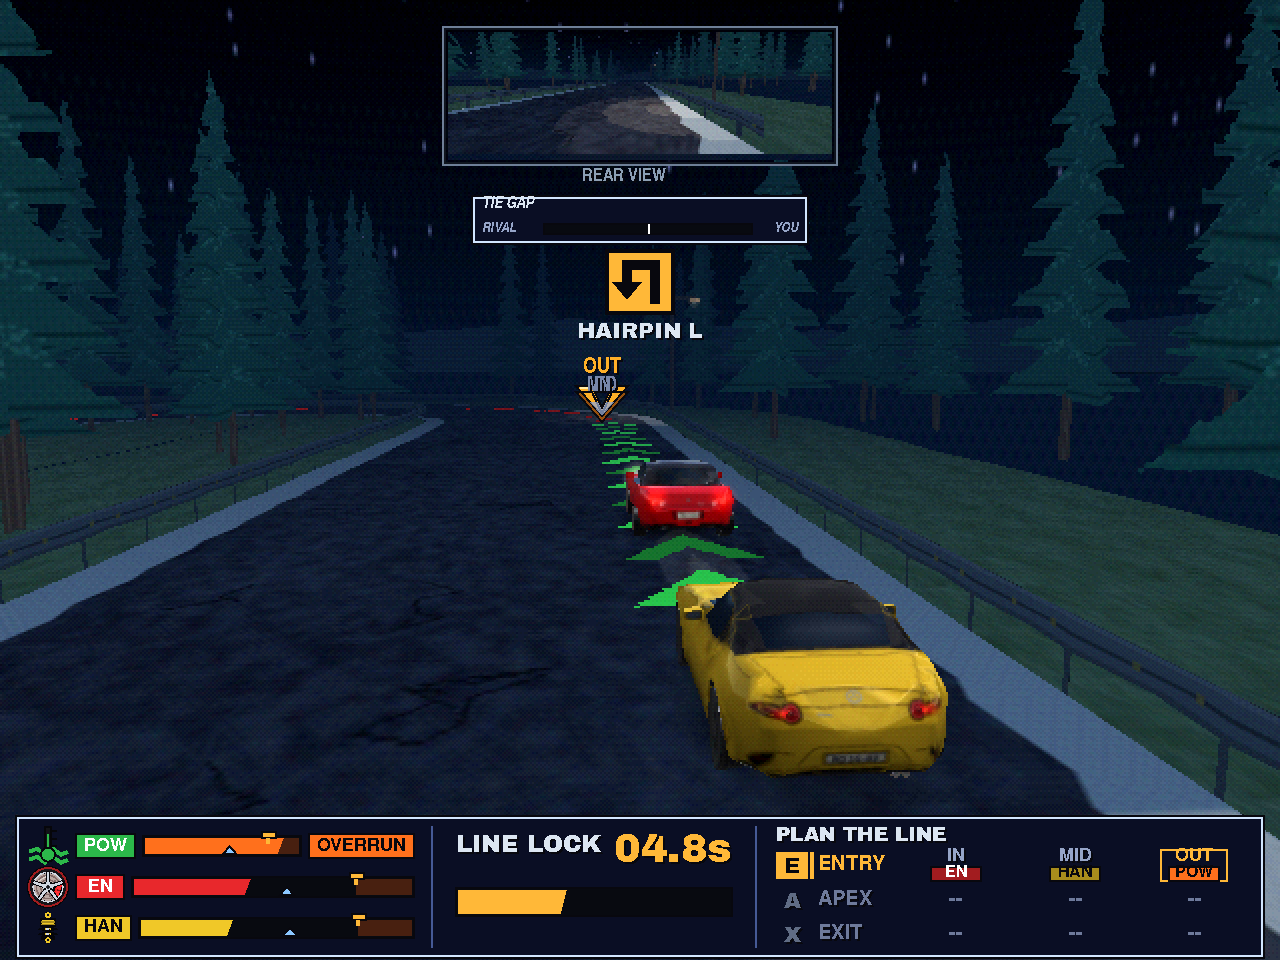
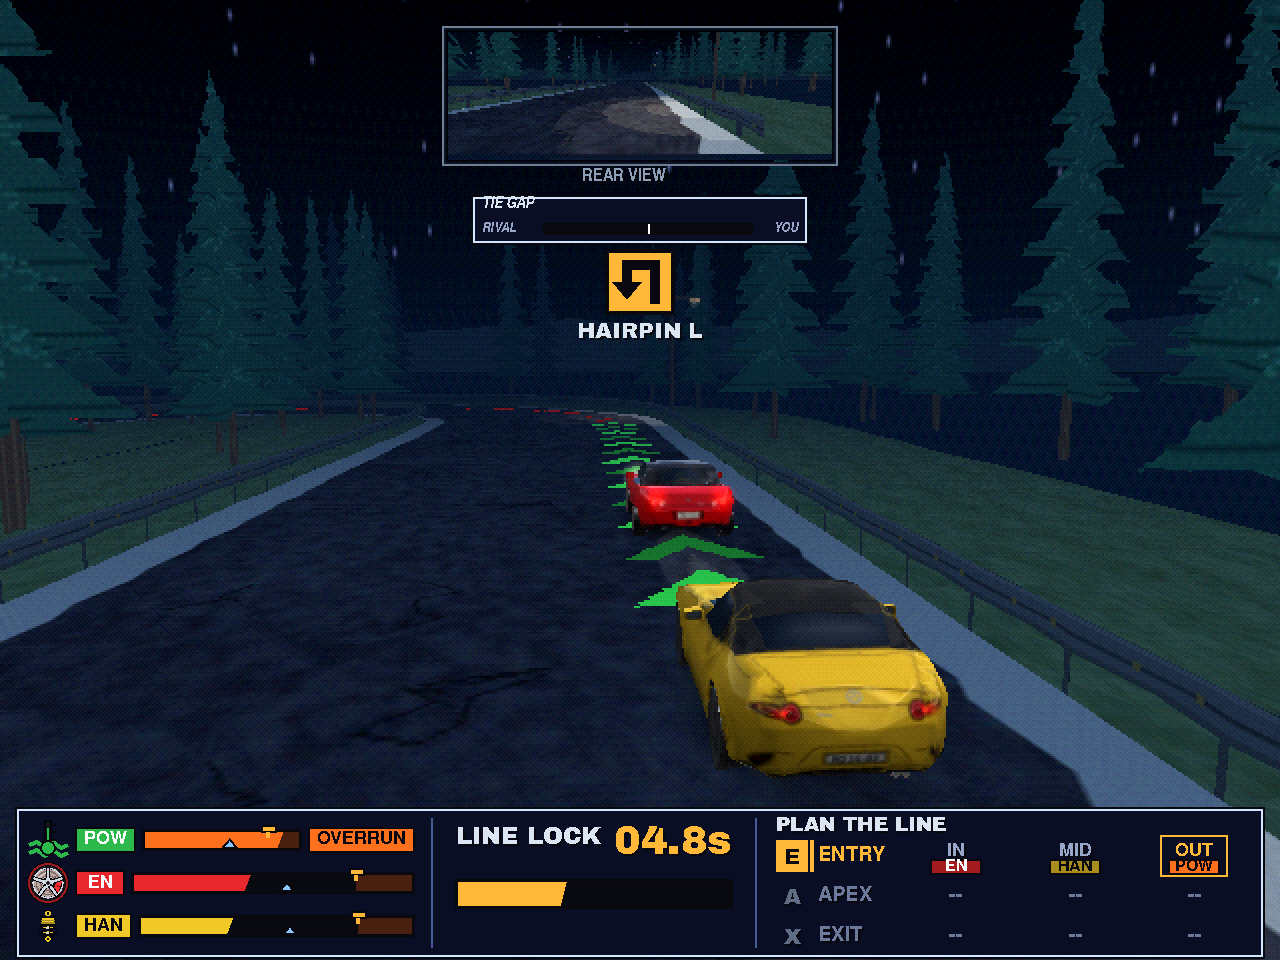
Art: E3B removes floating OUT/MID/IN labels; plan box spacing
Austin asked the stacked OUT/MID/IN labels and down-arrows off the far
road; the coloured chevrons alone show the line. Touge lane lines stay
off. The selected plan-box frame now has 2 px clearance above the
position word and a 2 px gap above the framed stat box, so OUT is no
longer clipped. Concept only; not in the sim.

Changed region(s): [[0.0, 0.8438, 0.7812, 0.9688], [0.8125, 0.8438, 1.0, 0.9375], [0.4375, 0.375, 0.5, 0.4375]]

diff --git a/unapproved/arthur/mockups/resource_meters/README.md b/unapproved/arthur/mockups/resource_meters/README.md
@@ -25,7 +25,7 @@ Variant **E** replaces the POW/fuel row with **HEAT**: a standard dashboard cool
 - `e_full.png` — **E1.** International Rally-style layout (Austin, 2026-11-13: that GBC shot "shows a better HUD design"). One flat dark band under the play area: compact continuous HEAT / BRAKES / SUSP on the left (icon + stat chip + trough, like the T/G/E/S column), LINE LOCK (continuous bar, no pips) and the corner map in the middle, PLAN THE LINE chips on the right. The top stays minimal: rear view, a tighter tie-gap, and a floating flat turn sign (from the first reference). The road and the car stay clear. Art direction is flat: solid panel fills, 1–2 px hard borders, no plate grain, no bevels, no sheen (Austin: "the correct art direction is flatter is better"). Applied to every HUD element in E.
 - `e2_full.png` — **E2.** Same language, but LINE LOCK and the corner name sit in slim flat strips flanking the rear view, and the bottom band holds meters, the map, and the plan with a little more width. Use this if the single band in E1 feels tight.
 - `e3_full.png` — **E3.** From E1, answering Austin 2026-11-13: "if the turn indicator exists, why does the one exist in the middle of the bottom hud?" The corner map arc is gone from the band. HAIRPIN L sits under the floating turn sign, and the sign itself is a proper hairpin-left (U-turn) arrow. E / A / X camera stops move next to the PLAN THE LINE rows (E with ENTRY, A with APEX, X with EXIT). The middle of the band is LINE LOCK only, with room and bigger timer digits. Band type is Archivo Black / Nimbus Sans Bold at readable sizes, still flat.
-- `e3b_full.png` — **E3B.** Same layout as E3, with a new meter model (Austin, 2026-11-13). Concept only; not in the sim. All three bars are heat / load meters: they fill as load builds and drain as they recover. POW = engine heat (coolant icon, unchanged). EN and HAN band icons were reverted at Austin's request to the E3 wheel+caliper and shock from 7c69bf6; the EN wheel was then redrawn as a thin 5-spoke (spokes and hub face in the rim's light tone; one spoke points straight up so none sit on the horizontal; caliper still inside the rim, visible in the window near 3 o'clock). The HAN shock was shortened to a squatter coilover so it stays inside its row and does not crowd the EN wheel, chips or bars. PLAN THE LINE sits on a clean grid: a header row, fixed E/A/X and label columns, and three even OUT/MID/IN columns with the position text centred over a same-width framed stat box. The section is a little wider, taking space from LINE LOCK. These E3B frames also use a local touge road texture with no lane lines (lane lines appear only in the Street and Wangan settings, never on touge). The stat colour is the base fill. A LIMIT cap sits at about 80% and a RELEASE triangle at about 55% (placeholder numbers, not approved); the two marks are deliberately different. Between LIMIT and full is OVERRUN: hot-orange fill `#FF701C`, an OVERRUN tag, and a hot-orange penalty fill on that stance's PLAN THE LINE stat chip (still selectable, hits less). A full bar is LOCKED: padlock + LOCKED tag, the meter stat chip greyed and struck, and the plan chip shown unavailable. Once locked, the bar stays locked while it cools (dim, flat-hatched fill, padlock still up) until the fill drops below RELEASE; just under RELEASE it unlocks again. `e3b_full.png` shows mixed mid loads, all under LIMIT.
+- `e3b_full.png` — **E3B.** Same layout as E3, with a new meter model (Austin, 2026-11-13). Concept only; not in the sim. All three bars are heat / load meters: they fill as load builds and drain as they recover. POW = engine heat (coolant icon, unchanged). EN and HAN band icons were reverted at Austin's request to the E3 wheel+caliper and shock from 7c69bf6; the EN wheel was then redrawn as a thin 5-spoke (spokes and hub face in the rim's light tone; one spoke points straight up so none sit on the horizontal; caliper still inside the rim, visible in the window near 3 o'clock). The HAN shock was shortened to a squatter coilover so it stays inside its row and does not crowd the EN wheel, chips or bars. PLAN THE LINE sits on a clean grid: a header row, fixed E/A/X and label columns, and three even OUT/MID/IN columns with the position text centred over a same-width framed stat box. The section is a little wider, taking space from LINE LOCK. These E3B frames also use a local touge road texture with no lane lines (lane lines appear only in the Street and Wangan settings, never on touge). The floating OUT / MID / IN labels and down-arrows above the far end of the road are removed; the coloured chevrons on the road alone show the planned line. In the plan box, the selected-choice frame has 2 px clearance above the position word, and there is a 2 px gap between that word and its framed stat box. The stat colour is the base fill. A LIMIT cap sits at about 80% and a RELEASE triangle at about 55% (placeholder numbers, not approved); the two marks are deliberately different. Between LIMIT and full is OVERRUN: hot-orange fill `#FF701C`, an OVERRUN tag, and a hot-orange penalty fill on that stance's PLAN THE LINE stat chip (still selectable, hits less). A full bar is LOCKED: padlock + LOCKED tag, the meter stat chip greyed and struck, and the plan chip shown unavailable. Once locked, the bar stays locked while it cools (dim, flat-hatched fill, padlock still up) until the fill drops below RELEASE; just under RELEASE it unlocks again. `e3b_full.png` shows mixed mid loads, all under LIMIT.
 
 
 **Strongest of A–C: B.** It shares LINE LOCK's width and pip language, so the left column reads as one family, and drain / low / empty / refill are the easiest to judge at a glance. A is the most compact, but the short vertical ticks are harder to count and the plates sit narrower than LINE LOCK. C is a good late-90s gauge alternative; the rings are distinctive, but they compete a little with the circular brake icon and the track only has six pips.
@@ -53,6 +53,7 @@ States are rendered for every variant (`a_`, `b_`, `c_`, `d_`, `e_` prefixes; E2
 - `en_icon_5spoke.png` — EN 5-spoke before and after the rotation (one spoke up) at in-band and 4× nearest.
 - `han_icon_short.png` — old vs shorter HAN coilover at in-band and 4× nearest, shown in the band with the neighbouring rows.
 - `plan_box_cleanup.png` — PLAN THE LINE box before and after the grid cleanup, at 2× nearest.
+- `e3b_no_marker.png` — before / after crop of the far-road marker area at 2× nearest: stacked OUT / MID / IN labels removed, road chevrons kept.
 
 **E vs D, what was trimmed or moved.** LINE LOCK, PLAN THE LINE and the HAIRPIN plate leave the play area and sit in the bottom band (E2 parks LINE LOCK and the corner name in slim top strips instead). Meter text labels drop; identity is icon + POW / EN / HAN chip. The tie-gap box is shorter. Plate grain, bevels and bar sheen are gone on every E HUD element. The floating turn sign replaces the large top-right corner plate as the upcoming-turn cue (the name, map and E/A/X stops remain, just smaller, in the band).
 

diff --git a/CHANGELOG.md b/CHANGELOG.md
@@ -8,6 +8,12 @@
 
 ---
 
+## 2026-11-13 — Arthur [art]: E3B drops the floating OUT/MID/IN road labels; plan box spacing
+
+- **Why:** Austin, 2026-11-13: the floating OUT/MID/IN labels with down-arrows were stacked into a smudge over the far road. After a look at spreading them, he ruled they should come off completely — the road chevrons alone show the line. Also fix the plan-box nits: the selection frame clipped the top of OUT, and the position word sat on its stat box.
+- **What (`unapproved/arthur/mockups/resource_meters/`):** The floating lane-marker overlay is skipped in this mockup (labels and down-arrows gone). Coloured road chevrons are unchanged. Touge lane lines stay off. PLAN THE LINE rows are a little taller so the 1 px selected frame has 2 px clearance above the position word and a 2 px gap above the framed stat box. `e3b_full.png`, `e3b_states.png`, `e3b_overrun.png` and `e3b_locked.png` re-rendered in Godot (state source frames too). Before/after crop of the marker area at 2×: `e3b_no_marker.png`. Concept only; not in the sim.
+- **Game file:** The overlay is Arthur's `unapproved/arthur/mockups/line_preview/godot/scripts/hud/lanes.gd`, also used in Gordon's two-corner HUD at `unapproved/gordon/two-corner/godot/scripts/hud/lanes.gd` (positions unprojected from the chase camera). Neither file was edited; the mockup just passes no lane points so the overlay does not paint.
+
 ## 2026-11-13 — Arthur [art]: E3B PLAN THE LINE grid cleanup; no lane lines on touge
 
 - **Why:** Austin, 2026-11-13: "Kinda sloppy, out/mid/in is bunched together and the plan the line box is sloppy." Also: remove the dashed centre and edge lane markings from the touge road in these mockup renders — they wobble near the camera and make the road look too wide for a tight touge pass.
